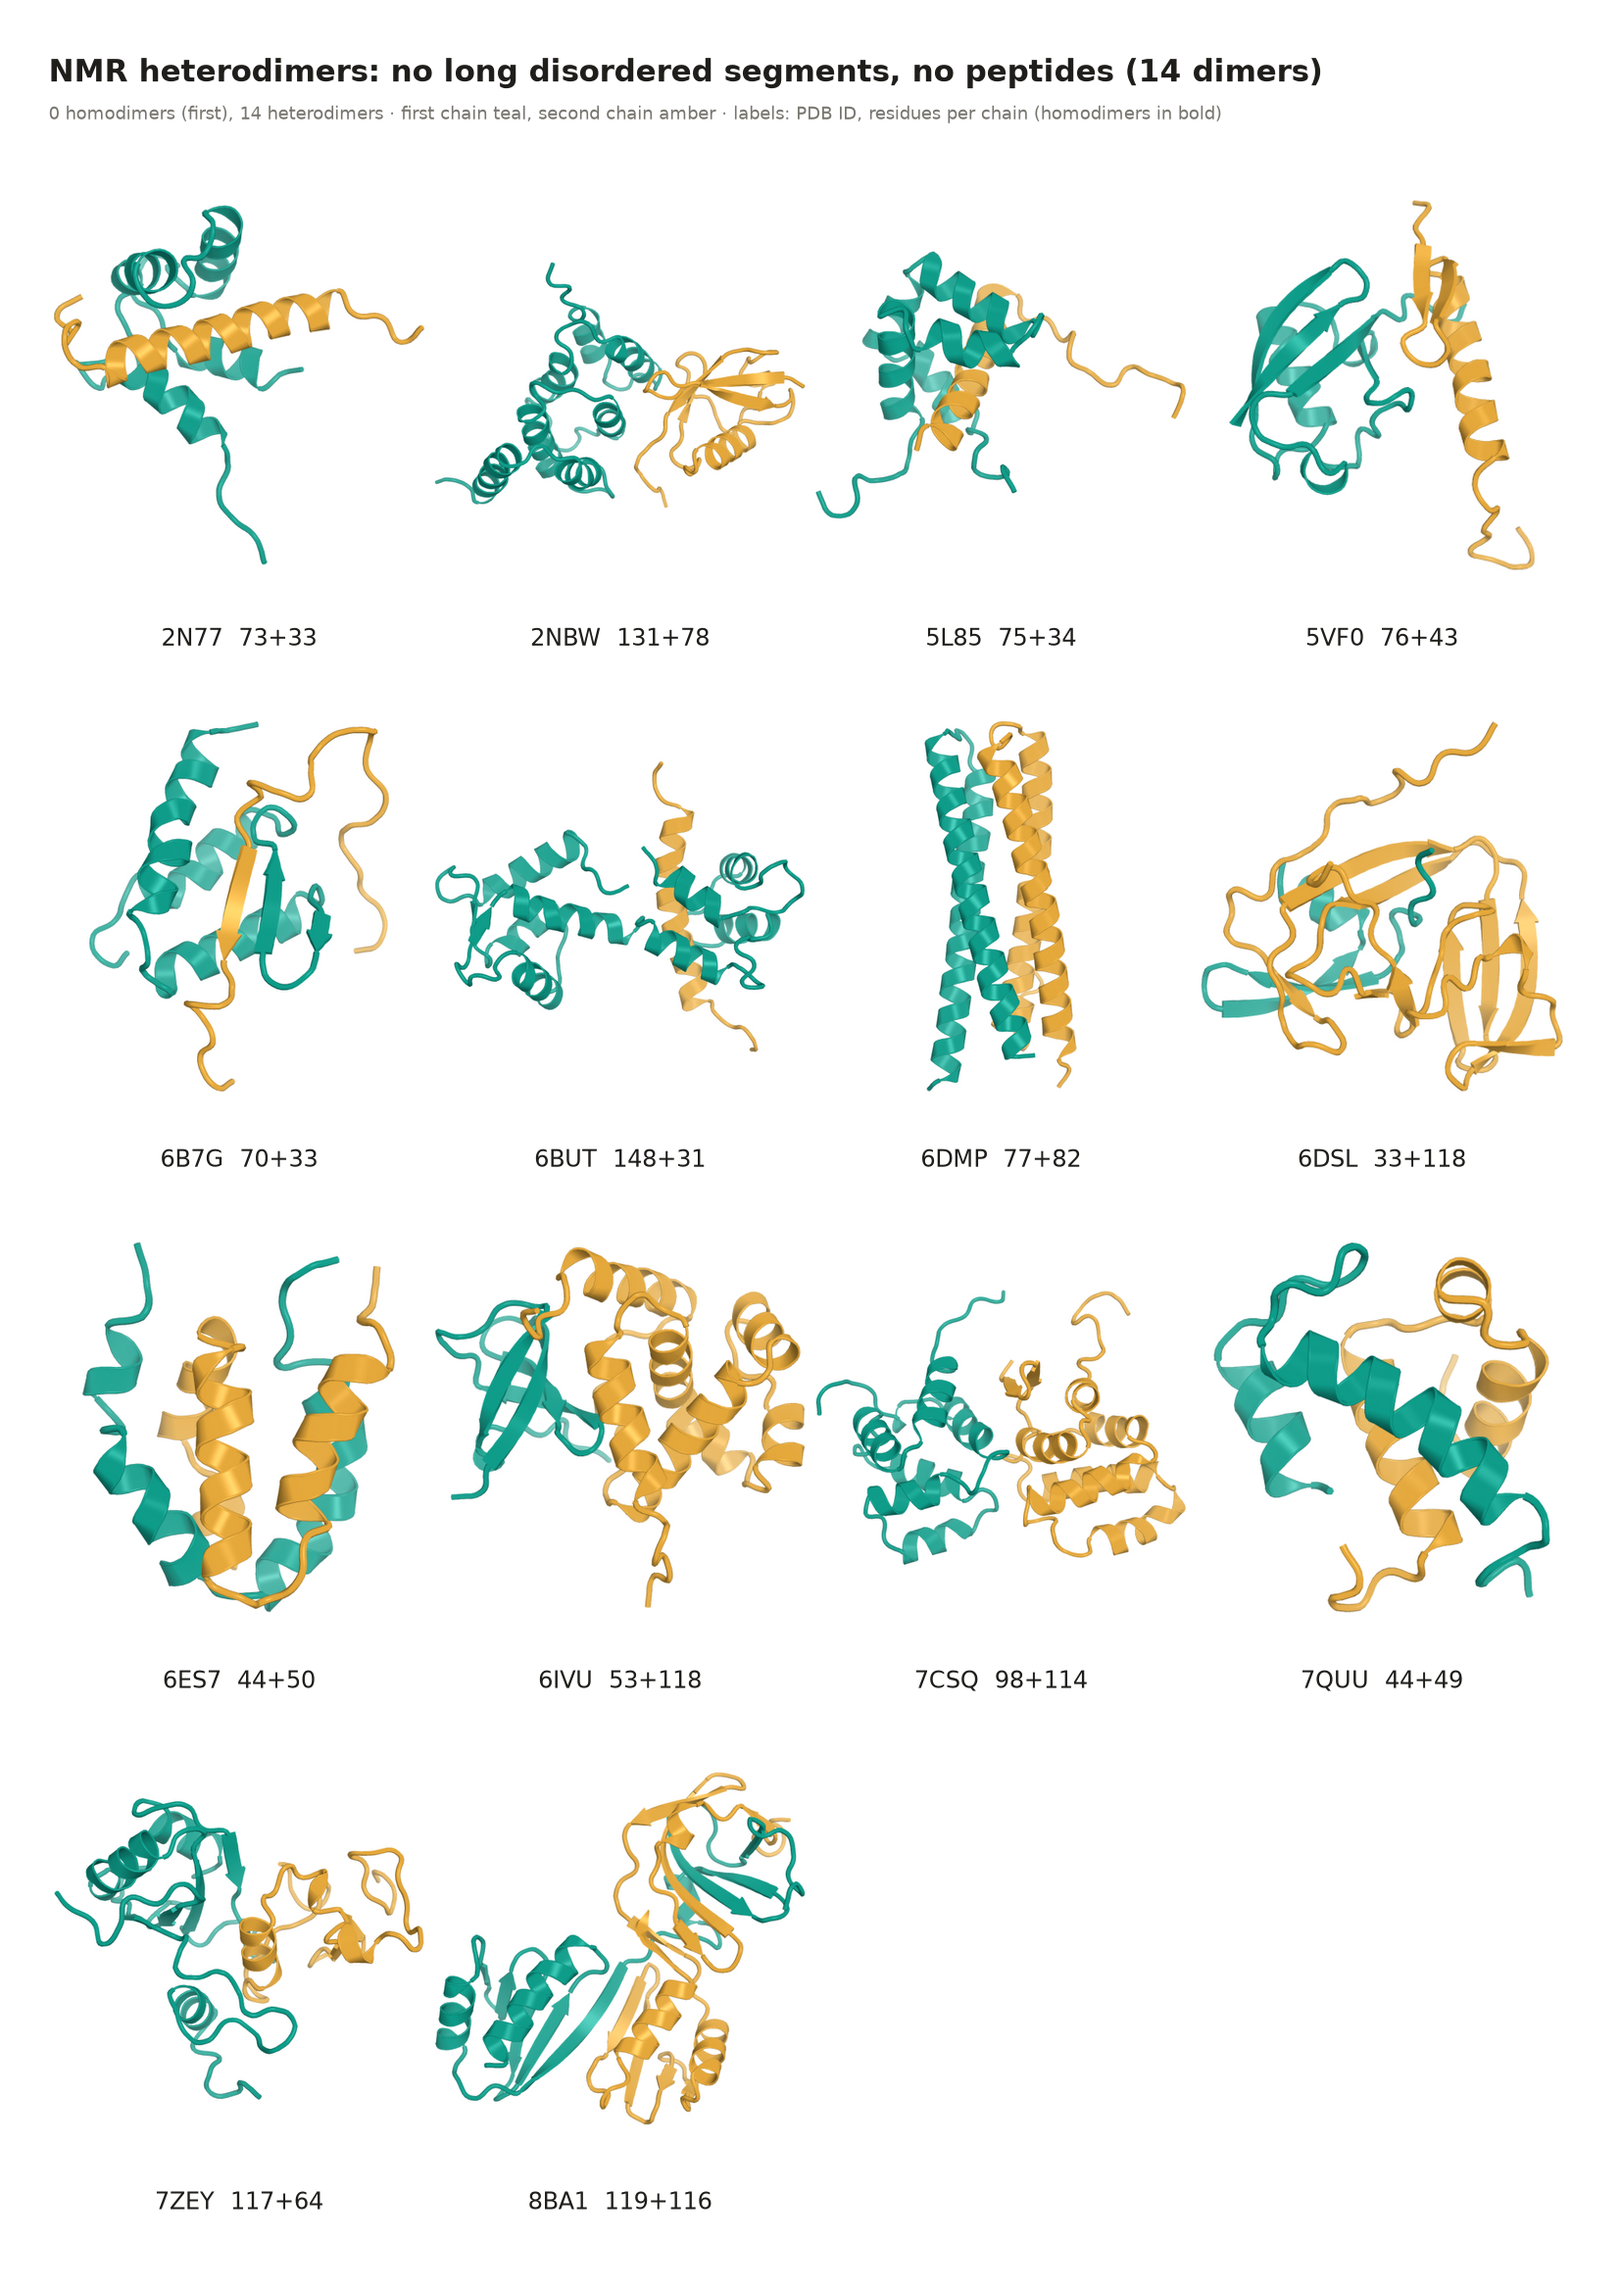
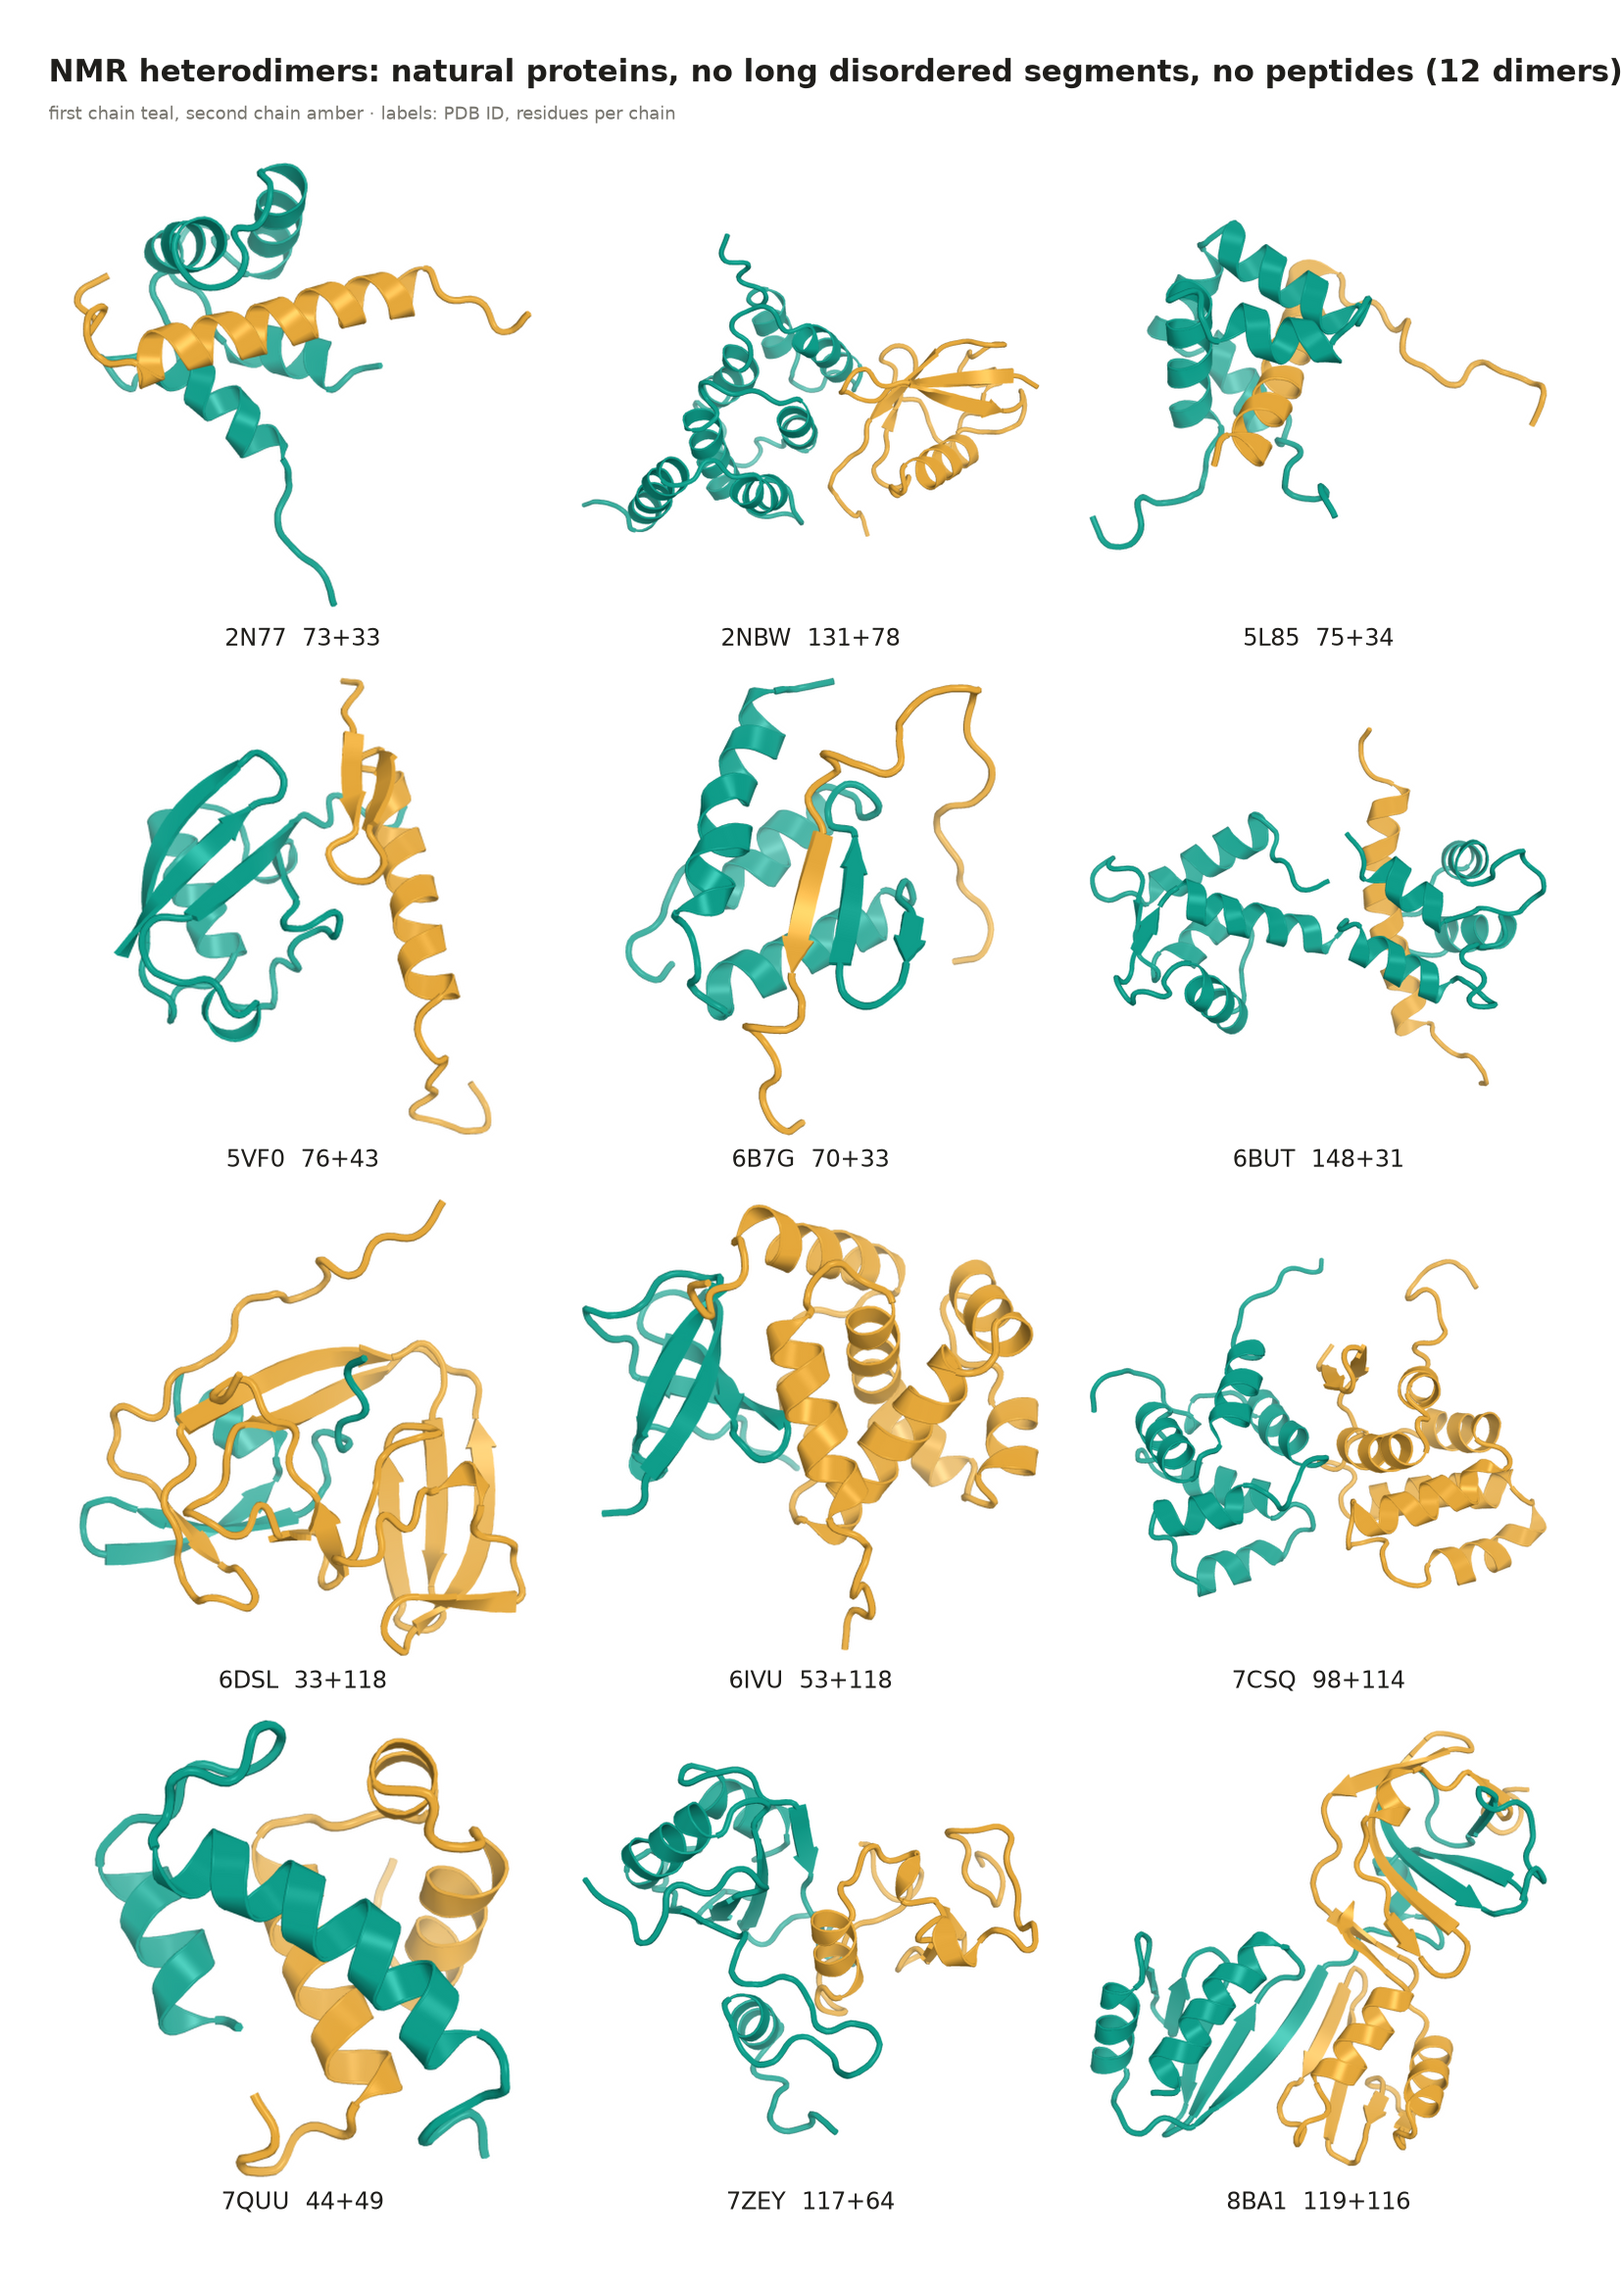
NMR benchmark example: exclude 6ES7 and 6DMP (natural proteins only)
6ES7 is a reconstructed ancestral complex of two intrinsically disordered
proteins and 6DMP a de novo designed heterodimer. The curated set is now
65 dimers (NMR-hetero 12); scores, figures, FASTA files and notes updated.

diff --git a/examples/nmr_benchmark/README.md b/examples/nmr_benchmark/README.md
@@ -1,6 +1,6 @@
 # Curated NMR dimer benchmark: one conformer per ensemble
 
-AF2Rank scores for 67 protein dimers solved by solution NMR, each scored with all 17 template-capable AlphaFold2 weights. The set is a curated subset of the 99-dimer NMR benchmark of B. Savaş's PhD thesis (chapter 4), whose interfaces AlphaFold2 did not see in training. The curation notes are in [`CURATION.md`](CURATION.md).
+AF2Rank scores for 65 protein dimers solved by solution NMR, each scored with all 17 template-capable AlphaFold2 weights. The set is a curated subset of the 99-dimer NMR benchmark of B. Savaş's PhD thesis (chapter 4), whose interfaces AlphaFold2 did not see in training. The curation notes are in [`CURATION.md`](CURATION.md).
 
 **One conformer only.** Every score here comes from **model 1 (the first conformer) of each NMR ensemble**. A run over every deposited conformer is in progress, and its results will be added and curated the same way.
 
@@ -9,7 +9,7 @@ AF2Rank scores for 67 protein dimers solved by solution NMR, each scored with al
 - **Inputs:** model 1 of each deposited ensemble, cleaned by the pipeline's strict cleaning. Sequences come from SEQRES, trimmed to the modelled span; the FASTA files are in [`fasta/`](fasta).
 - **Settings:** full resolution (template sequence and side chains kept), 0 recycles, one iteration. This was the best-performing condition in the thesis benchmark.
 - **Weights:** AF2-ptm models 1–2 and AF2.1, AF2.2 and AF2.3 multimer models 1–5. For multimer weights, the two chains are joined by a 20-glycine linker that is masked in the template and removed before scoring (see the [report](../../docs/af2rank_all_weights.md)).
-- **Scores:** `results/scores_model1_all_weights.csv` holds pLDDT, pTM, ipTM, actifpTM, DockQ input→output and interface RMSD input→output for each dimer and weight (1,139 rows). DockQ input→output compares the input model with AlphaFold's output. It measures how far AlphaFold moves the interface, not agreement with another experimental structure.
+- **Scores:** `results/scores_model1_all_weights.csv` holds pLDDT, pTM, ipTM, actifpTM, DockQ input→output and interface RMSD input→output for each dimer and weight (1,105 rows). DockQ input→output compares the input model with AlphaFold's output. It measures how far AlphaFold moves the interface, not agreement with another experimental structure.
 - **Hardware:** MareNostrum 5, H100 GPUs, with the Slurm scripts in [`../marenostrum5`](../marenostrum5).
 
 ## Sub-benchmarks
@@ -17,7 +17,7 @@ AF2Rank scores for 67 protein dimers solved by solution NMR, each scored with al
 | Sub-benchmark | Dimers | What it contains | Structures |
 | --- | --- | --- | --- |
 | NMR-homo | 29 | symmetric homodimers without long disordered segments | [figure](figures/structures_homo.png) |
-| NMR-hetero | 14 | heterodimers without long disordered segments | [figure](figures/structures_hetero.png) |
+| NMR-hetero | 12 | heterodimers of natural proteins without long disordered segments | [figure](figures/structures_hetero.png) |
 | NMR-flexible | 24 | dimers with long disordered segments (10 homo, 14 hetero) | [figure](figures/structures_flexible.png) |
 
 The PDB IDs of each sub-benchmark are listed in `kept_homo.txt`, `kept_hetero.txt` and `kept_flexible.txt`. `targets.csv` has one row for each of the original 99 dimers, giving its status, sub-benchmark, exclusion reason and properties (interface size, chain-B spread across the ensemble, backbone RMSD, flags).
@@ -30,12 +30,12 @@ The PDB IDs of each sub-benchmark are listed in `kept_homo.txt`, `kept_hetero.tx
 
 | Weight set | NMR-homo | NMR-hetero | NMR-flexible |
 | --- | --- | --- | --- |
-| AF2-ptm | 0.70 / 0.80 | 0.71 / 0.77 | 0.64 / 0.76 |
-| AF2.1 multimer | 0.57 / 0.64 | 0.62 / 0.64 | 0.53 / 0.48 |
-| AF2.2 multimer | 0.69 / 0.64 | 0.74 / 0.63 | 0.65 / 0.49 |
-| AF2.3 multimer | 0.68 / 0.71 | 0.72 / 0.68 | 0.62 / 0.59 |
+| AF2-ptm | 0.70 / 0.80 | 0.72 / 0.79 | 0.64 / 0.76 |
+| AF2.1 multimer | 0.57 / 0.64 | 0.61 / 0.66 | 0.53 / 0.48 |
+| AF2.2 multimer | 0.69 / 0.64 | 0.75 / 0.64 | 0.65 / 0.49 |
+| AF2.3 multimer | 0.68 / 0.71 | 0.73 / 0.69 | 0.62 / 0.59 |
 
-With the multimer weights, DockQ input→output is about 0.1 lower for the NMR-flexible dimers than for the other two sets, while ipTM differs less. The heterodimer and flexible sets are small (14 and 24 dimers, five points per dimer and multimer weight set), so treat their correlations as rough estimates.
+With the multimer weights, DockQ input→output is about 0.1 lower for the NMR-flexible dimers than for the other two sets, while ipTM differs less. The heterodimer and flexible sets are small (12 and 24 dimers, five points per dimer and multimer weight set), so treat their correlations as rough estimates.
 
 ![Structures of the NMR-hetero sub-benchmark](figures/structures_hetero.png)
 
@@ -43,12 +43,13 @@ With the multimer weights, DockQ input→output is about 0.1 lower for the NMR-f
 
 ## Curation in brief
 
-The thesis selected 99 NMR dimers released between March 2016 and December 2025. Each has an interface that AlphaFold2 could not have seen, no mutations, post-translational modifications or covalent interfaces, and secondary structure at the interface. From these, 32 were removed:
+The thesis selected 99 NMR dimers released between March 2016 and December 2025. Each has an interface that AlphaFold2 could not have seen, no mutations, post-translational modifications or covalent interfaces, and secondary structure at the interface. From these, 34 were removed:
 
 - **No published paper** (RCSB primary citation "To be published"): 7 dimers.
 - **Not an experimentally determined complex:** HADDOCK docking or complexes assembled from earlier structures (8 dimers), and one complex built from lanthanide pseudocontact shifts only.
 - **Lipid-modified peptide at the interface:** 7NQC.
 - **Peptide partner** (a chain shorter than 30 residues): 16 dimers.
+- **Not a natural protein pair:** a reconstructed ancestral complex of two intrinsically disordered proteins (6ES7) and a de novo designed heterodimer (6DMP).
 
 [`CURATION.md`](CURATION.md) lists every exclusion with its reason, the kept IDs and the decision log.
 
@@ -59,8 +60,8 @@ The thesis selected 99 NMR dimers released between March 2016 and December 2025.
 | `CURATION.md` | selection criteria, kept and excluded dimers, decision log |
 | `targets.csv` | the original 99 dimers with status, sub-benchmark, reason and properties |
 | `kept_*.txt` | PDB IDs per sub-benchmark |
-| `fasta/` | trimmed FASTA files of the 67 kept dimers (model coordinates: model 1 of each PDB entry) |
-| `results/scores_model1_all_weights.csv` | scores for 67 dimers × 17 weights |
+| `fasta/` | trimmed FASTA files of the 65 kept dimers (model coordinates: model 1 of each PDB entry) |
+| `results/scores_model1_all_weights.csv` | scores for 65 dimers × 17 weights |
 | `figures/` | the scatterplot and one page of structures per sub-benchmark |
 | `scripts/` | `plot_subsets_grid.py` (scatterplot), `render_nmr99.py` (PyMOL thumbnails), `make_a4_page.py` (structure pages) |
 

diff --git a/examples/nmr_benchmark/CURATION.md b/examples/nmr_benchmark/CURATION.md
@@ -1,6 +1,6 @@
 # NMR dimer benchmark: curation record
 
-Curated 2026-11-21. Start: the 99 NMR dimers of B. Savaş's AF2Rank chapter. Kept: 67; excluded: 32.
+Curated 2026-11-21. Start: the 99 NMR dimers of B. Savaş's AF2Rank chapter. Kept: 65; excluded: 34.
 
 ## Primary curation criteria (B. Savaş, PhD thesis chapter 4.1.2)
 
@@ -20,9 +20,9 @@ Source: B. Savaş, PhD thesis (in preparation), chapter 4; per-target scores of 
 
 2NDP 5JPW 5NF8 5NOC 5YAM 6C44 6D6S 6LUL 6LXG 6N2M 6Q2Z 6SAI 6TDM 6TV5 6U6P 6U6Q 6U6S 6UHW 6V88 7C4O 7DFE 7VU7 7WJ0 7YWQ 8DSB 8DSX 8PEK 8YAP 8ZU6
 
-**NMR-hetero** (14): heterodimers, no long disordered segments
+**NMR-hetero** (12): heterodimers, no long disordered segments
 
-2N77 2NBW 5L85 5VF0 6B7G 6BUT 6DMP 6DSL 6ES7 6IVU 7CSQ 7QUU 7ZEY 8BA1
+2N77 2NBW 5L85 5VF0 6B7G 6BUT 6DSL 6IVU 7CSQ 7QUU 7ZEY 8BA1
 
 **NMR-flexible** (24): homo- and heterodimers with long disordered segments (curators' list)
 
@@ -47,7 +47,9 @@ Source: B. Savaş, PhD thesis (in preparation), chapter 4; per-target scores of 
 | 6BGG | peptide partner (chain shorter than 30 residues) |
 | 6BNH | peptide partner (chain shorter than 30 residues) |
 | 6CTB | no published paper (PDB primary citation: To be published) |
+| 6DMP | de novo designed heterodimer (not a natural protein pair) |
 | 6E5N | peptide partner (chain shorter than 30 residues) |
+| 6ES7 | reconstructed ancestral complex of two intrinsically disordered proteins (low-affinity, dynamic) |
 | 6JXU | HADDOCK complex from intermolecular NOEs only (SUMO1 coordinates likely from an earlier structure; no intramolecular restraints deposited) |
 | 6JXW | HADDOCK complex from intermolecular NOEs only (SUMO2 coordinates likely from an earlier structure; no intramolecular restraints deposited) |
 | 6M78 | assembled from earlier structures (1ZYO, 6LXF) with HADDOCK |
@@ -69,7 +71,7 @@ Source: B. Savaş, PhD thesis (in preparation), chapter 4; per-target scores of 
 
 - 5N7Y: interface ligand/ion: Zn ions coordinated mainly by one chain, 3 contacts to the partner
 - 7QRI: interface ligand/ion: L-Phe bound between the two chains (2 copies)
-- 6ES7, 7CSQ: low AF2.3 ipTM (< 0.6 with all five weights); deposited methods are NOE-based, so kept.
+- 7CSQ: low AF2.3 ipTM (< 0.6 with all five weights); deposited method is NOE-based, so kept.
 - 7YWQ: HADDOCK listed only as a processing step; computed and refined with X-PLOR-NIH from 3D 13C/15N NOESY data.
 
 ## Decision log (2026-11-21)
@@ -83,3 +85,4 @@ Source: B. Savaş, PhD thesis (in preparation), chapter 4; per-target scores of 
 7. 6JXU and 6JXW excluded (SUMO1/SUMO2 with an ICP0 SIM peptide): computed with HADDOCK; the deposited restraints are only 17 and 19 intermolecular NOEs (no intramolecular restraints), so the SUMO coordinates likely come from an earlier structure.
 8. Peptide complexes excluded (a chain shorter than 30 modelled residues), as in the X-ray set: 2N3K, 2NCZ, 2ND0, 5H7P, 6BGG, 6BNH, 6E5N, 6S3W, 7JQ8, 7OVC, 7QDW, 7SFT, 7X5C, 8HEQ, 8U2Y, 9ATN.
 9. Deposited methods checked for the low-ipTM heterodimers: 6ES7 (CYANA, 3D NOESY + RDCs) and 7CSQ (CYANA/Amber, 13C/15N-filtered and 4D NOESY) kept; 5XBO excluded (only HSQC and 49 lanthanide pseudocontact-shift restraints, no NOESY; a lanthanide-tagging methods paper).
+10. Natural proteins only, as in the X-ray set: 6ES7 excluded (reconstructed ancestral CID/NCBD complex of two intrinsically disordered proteins; low-affinity and dynamic) and 6DMP excluded (de novo designed heterodimer).

diff --git a/README.md b/README.md
@@ -58,7 +58,7 @@ af2rank-pipeline run-target \
 
 The result table is `runs/1brs/manifests/final_models.csv`; the scored structure and PAE data are under `runs/1brs/af2rank/`. The [example notes](examples/1brs/README.md) describe the source of the bundled data. Use a new output directory for each independent run.
 
-More examples: [`examples/2ptc`](examples/2ptc) (a crystal structure with waters and ions to clean) and [`examples/e2a_hpr`](examples/e2a_hpr) (NMR ensembles of 3 and 30 models), each with scores for all 17 weights (for E2A–HPr, the 3-model ensemble). [`examples/nmr_benchmark`](examples/nmr_benchmark) has a curated benchmark of 67 NMR dimers (model 1 of each ensemble) scored with all 17 weights, split into homodimer, heterodimer and flexible sets, with curation notes.
+More examples: [`examples/2ptc`](examples/2ptc) (a crystal structure with waters and ions to clean) and [`examples/e2a_hpr`](examples/e2a_hpr) (NMR ensembles of 3 and 30 models), each with scores for all 17 weights (for E2A–HPr, the 3-model ensemble). [`examples/nmr_benchmark`](examples/nmr_benchmark) has a curated benchmark of 65 NMR dimers (model 1 of each ensemble) scored with all 17 weights, split into homodimer, heterodimer and flexible sets, with curation notes.
 
 ### NVIDIA GPU on Linux
 
